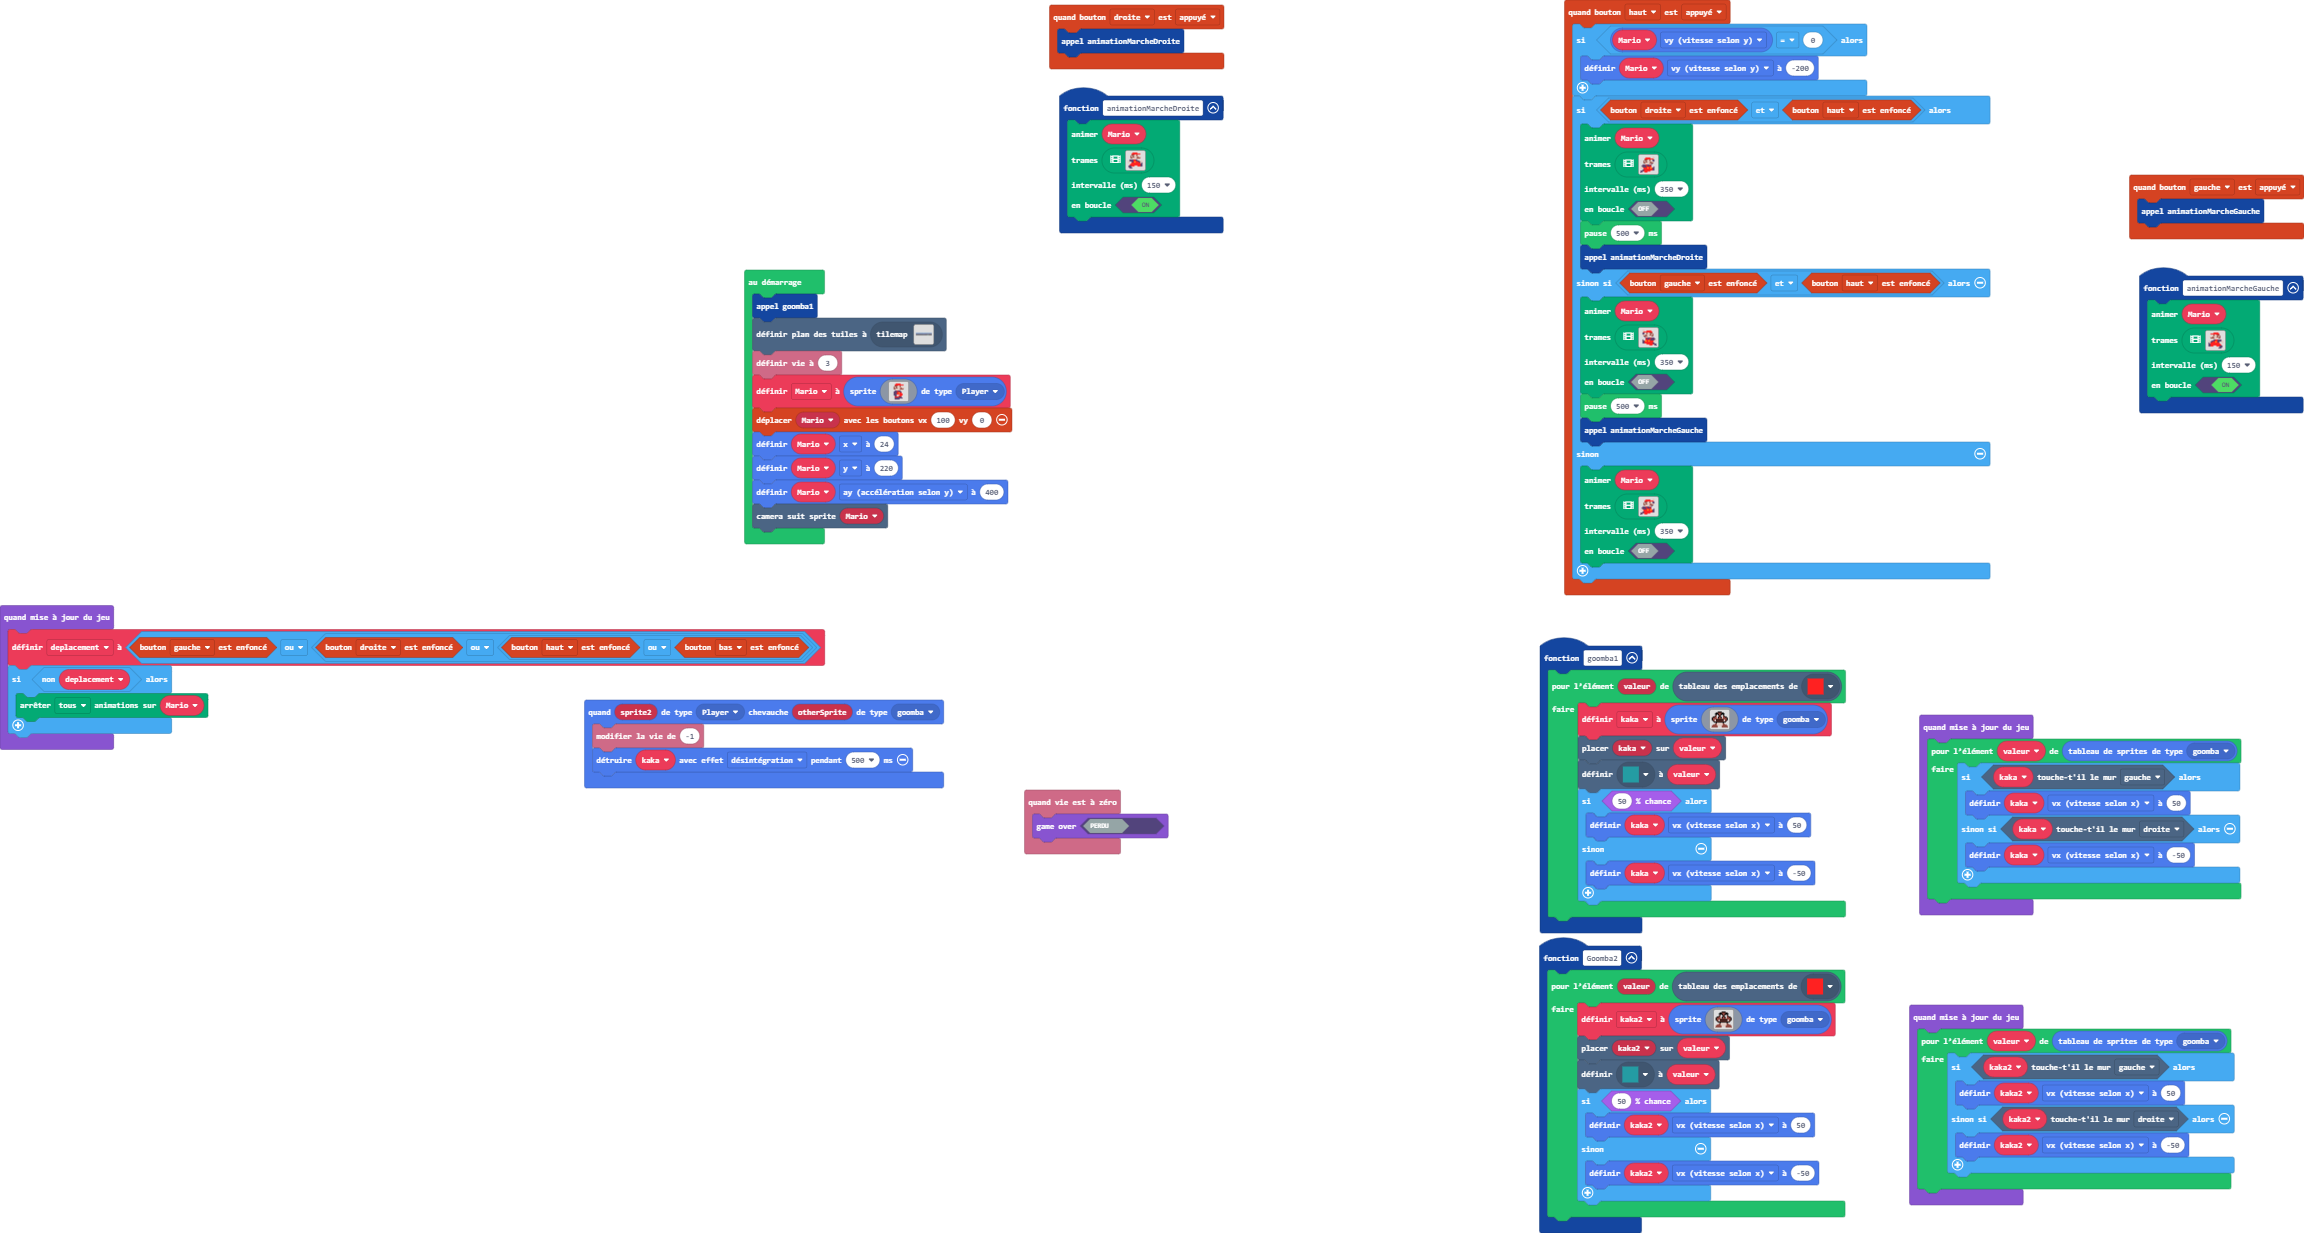
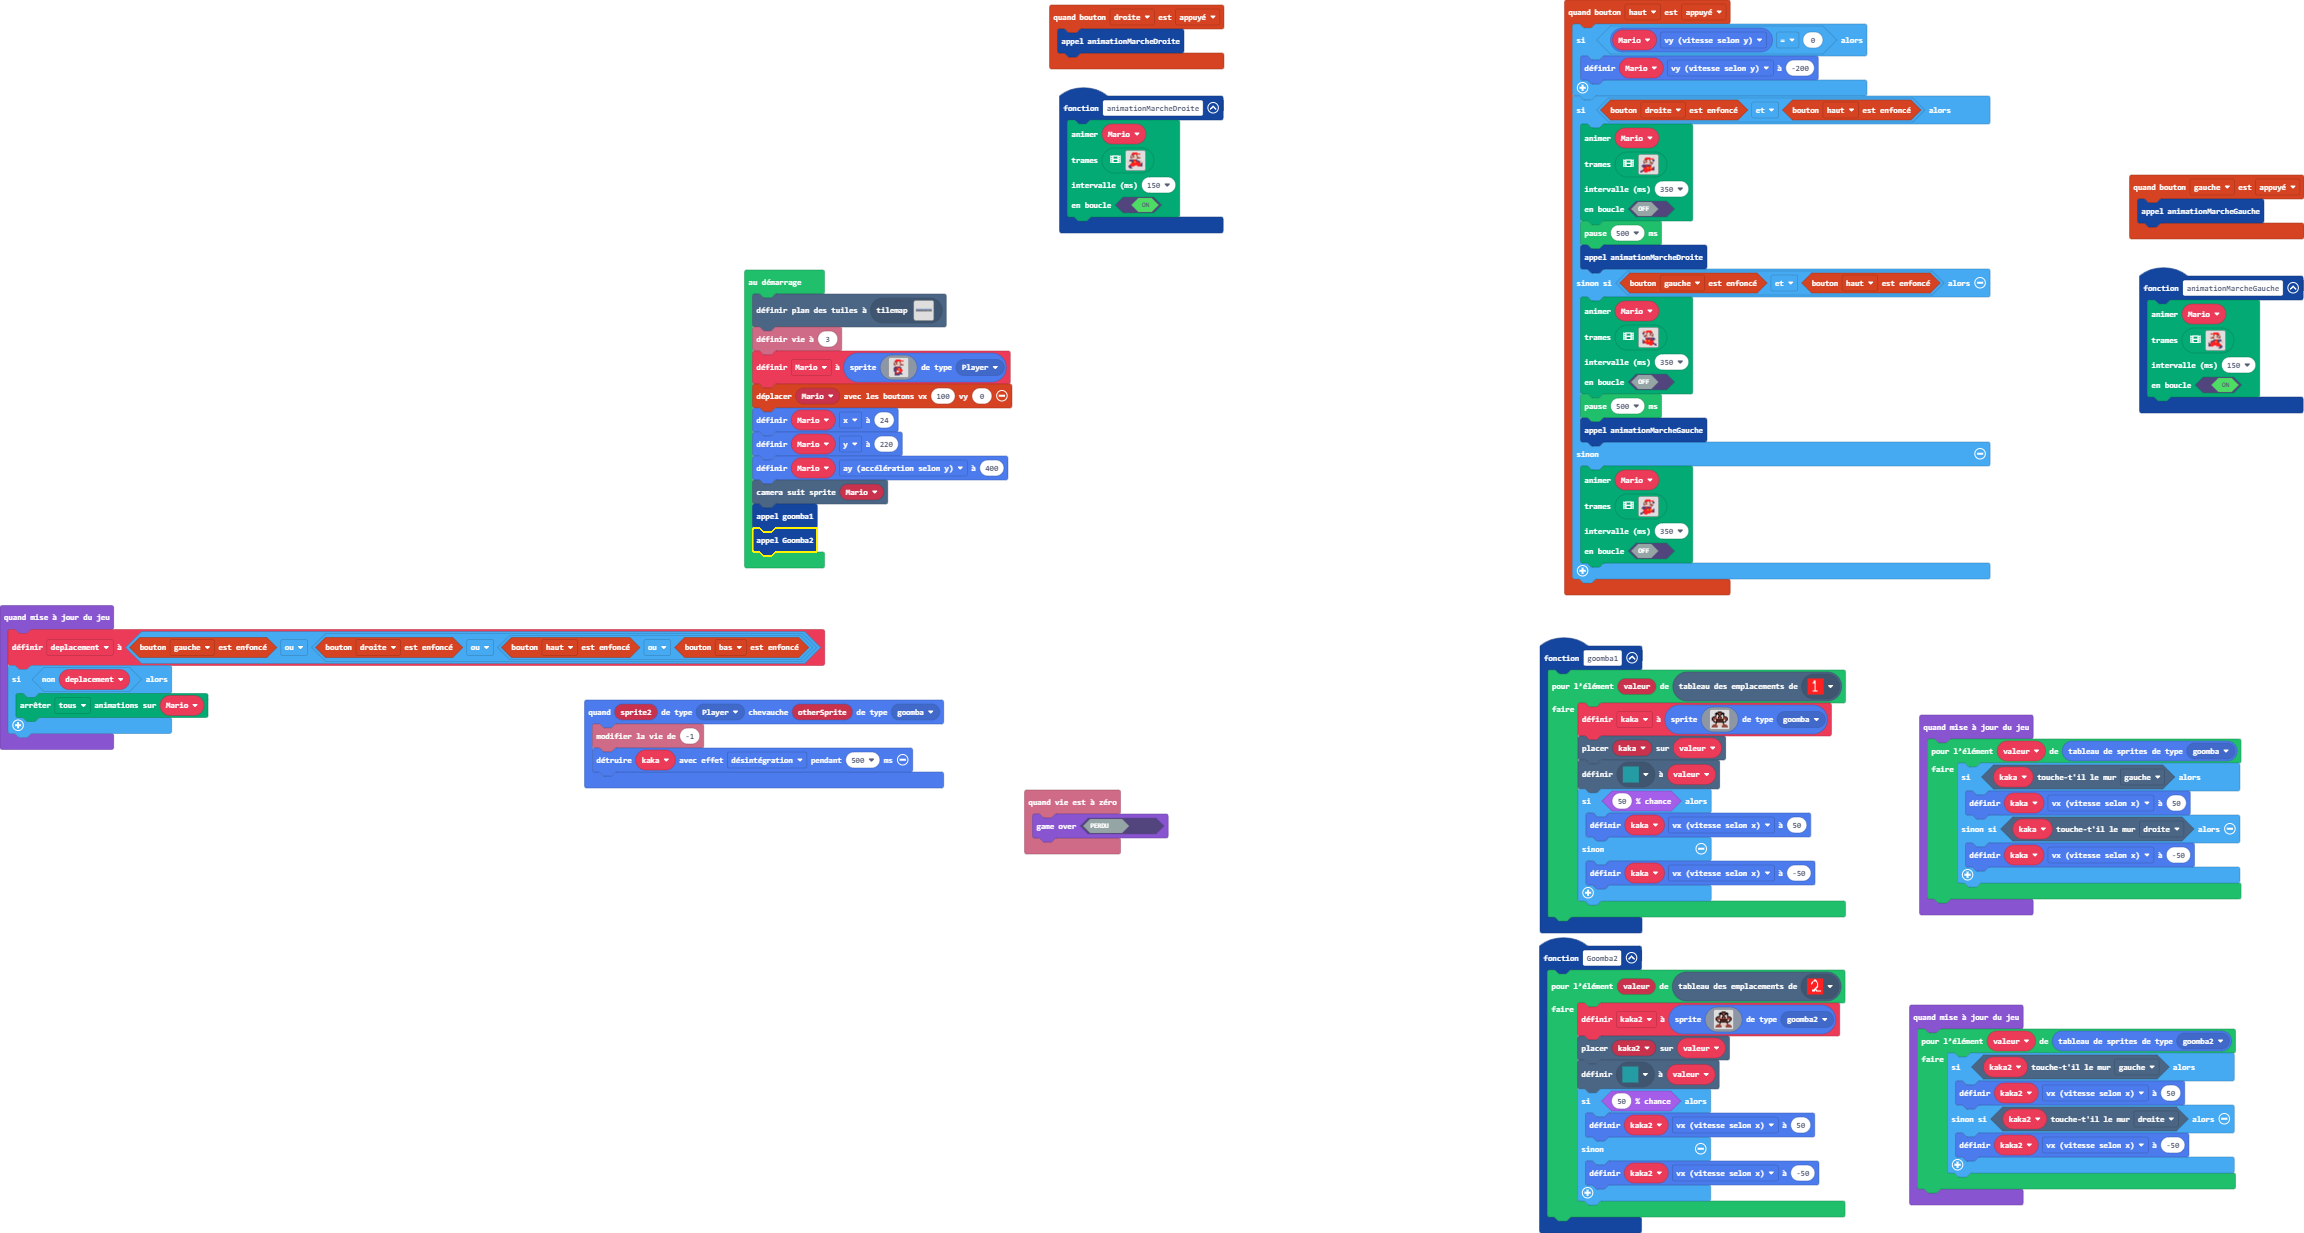
Mise à jour main.blocks, main.ts, tilemap.g.jres, tilemap.g.ts

Changed region(s): [[0.3125, 0.2157, 0.4375, 0.4623], [0.7812, 0.8013, 0.8125, 0.8321]]

diff --git a/tilemap.g.ts b/tilemap.g.ts
@@ -17,8 +17,6 @@ namespace myTiles {
     //% fixedInstance jres blockIdentity=images._tile
     export const tile8 = image.ofBuffer(hex``);
     //% fixedInstance jres blockIdentity=images._tile
-    export const tile6 = image.ofBuffer(hex``);
-    //% fixedInstance jres blockIdentity=images._tile
     export const tile13 = image.ofBuffer(hex``);
     //% fixedInstance jres blockIdentity=images._tile
     export const tile17 = image.ofBuffer(hex``);
@@ -102,6 +100,26 @@ namespace myTiles {
     export const tile51 = image.ofBuffer(hex``);
     //% fixedInstance jres blockIdentity=images._tile
     export const tile53 = image.ofBuffer(hex``);
+    //% fixedInstance jres blockIdentity=images._tile
+    export const tile40 = image.ofBuffer(hex``);
+    //% fixedInstance jres blockIdentity=images._tile
+    export const tile50 = image.ofBuffer(hex``);
+    //% fixedInstance jres blockIdentity=images._tile
+    export const tile52 = image.ofBuffer(hex``);
+    //% fixedInstance jres blockIdentity=images._tile
+    export const tile54 = image.ofBuffer(hex``);
+    //% fixedInstance jres blockIdentity=images._tile
+    export const tile55 = image.ofBuffer(hex``);
+    //% fixedInstance jres blockIdentity=images._tile
+    export const tile56 = image.ofBuffer(hex``);
+    //% fixedInstance jres blockIdentity=images._tile
+    export const tile57 = image.ofBuffer(hex``);
+    //% fixedInstance jres blockIdentity=images._tile
+    export const tile58 = image.ofBuffer(hex``);
+    //% fixedInstance jres blockIdentity=images._tile
+    export const tile59 = image.ofBuffer(hex``);
+    //% fixedInstance jres blockIdentity=images._tile
+    export const tile60 = image.ofBuffer(hex``);
 
     helpers._registerFactory("tilemap", function(name: string) {
         switch(helpers.stringTrim(name)) {
@@ -305,7 +323,7 @@ namespace myTiles {
 . . . . . . . . . . . . . . . . 
 `, [myTiles.transparency16], TileScale.Sixteen);
             case "niveau1":
[2 lines of base64/hex data omitted]
 ...............................................................................................................................................................................................................................................................
 ...............................................................................................................................................................................................................................................................
 ...............................................................................................................................................................................................................................................................
@@ -338,7 +356,7 @@ namespace myTiles {
 .....................................................................................................................................................................................2...22222222...2222.......................................................
 .....................................................................................................................................................................................2222222222222222222.......................................................
 ...............................................................................................................................................................................................................................................................
-`, [myTiles.transparency16,myTiles.tile2,myTiles.tile3,myTiles.tile7,myTiles.tile8,myTiles.tile9,myTiles.tile10,myTiles.tile11,myTiles.tile12,myTiles.tile4,myTiles.tile6,myTiles.tile15,myTiles.tile16,myTiles.tile19,myTiles.tile20,myTiles.tile21,myTiles.tile22,myTiles.tile26,myTiles.tile27,myTiles.tile28,myTiles.tile29,myTiles.tile30,myTiles.tile14,myTiles.tile35,myTiles.tile38,myTiles.tile39,myTiles.tile41,myTiles.tile42,myTiles.tile23,myTiles.tile31,myTiles.tile32,myTiles.tile33,myTiles.tile44,myTiles.tile45,myTiles.tile46,myTiles.tile47,myTiles.tile48,myTiles.tile49,myTiles.tile51,myTiles.tile53], TileScale.Sixteen);
+`, [myTiles.transparency16,myTiles.tile2,myTiles.tile3,myTiles.tile7,myTiles.tile8,myTiles.tile9,myTiles.tile10,myTiles.tile11,myTiles.tile12,myTiles.tile4,myTiles.tile15,myTiles.tile16,myTiles.tile19,myTiles.tile20,myTiles.tile21,myTiles.tile22,myTiles.tile26,myTiles.tile27,myTiles.tile28,myTiles.tile29,myTiles.tile30,myTiles.tile14,myTiles.tile35,myTiles.tile38,myTiles.tile39,myTiles.tile41,myTiles.tile42,myTiles.tile23,myTiles.tile31,myTiles.tile32,myTiles.tile33,myTiles.tile44,myTiles.tile45,myTiles.tile46,myTiles.tile47,myTiles.tile51,myTiles.tile53,myTiles.tile40,myTiles.tile50,myTiles.tile52,myTiles.tile54,myTiles.tile55,myTiles.tile56,myTiles.tile57,myTiles.tile58,myTiles.tile59,myTiles.tile60], TileScale.Sixteen);
         }
         return null;
     })
@@ -360,8 +378,6 @@ namespace myTiles {
             case "tile7":return tile7;
             case "myTile6":
             case "tile8":return tile8;
-            case "myTile4":
-            case "tile6":return tile6;
             case "myTile11":
             case "tile13":return tile13;
             case "myTile15":
@@ -446,6 +462,26 @@ namespace myTiles {
             case "tile51":return tile51;
             case "myTile51":
             case "tile53":return tile53;
+            case "myTile38":
+            case "tile40":return tile40;
+            case "myTile48":
+            case "tile50":return tile50;
+            case "myTile50":
+            case "tile52":return tile52;
+            case "myTile52":
+            case "tile54":return tile54;
+            case "myTile53":
+            case "tile55":return tile55;
+            case "myTile54":
+            case "tile56":return tile56;
+            case "myTile55":
+            case "tile57":return tile57;
+            case "myTile56":
+            case "tile58":return tile58;
+            case "myTile57":
+            case "tile59":return tile59;
+            case "myTile58":
+            case "tile60":return tile60;
         }
         return null;
     })

diff --git a/main.ts b/main.ts
@@ -2,6 +2,7 @@ namespace SpriteKind {
     export const goomba = SpriteKind.create()
     export const animation = SpriteKind.create()
     export const blockMystere = SpriteKind.create()
+    export const goomba2 = SpriteKind.create()
 }
 function animationMarcheGauche () {
     animation.runImageAnimation(
@@ -265,7 +266,7 @@ function animationMarcheDroite () {
     )
 }
 function Goomba2 () {
-    for (let valeur of tiles.getTilesByType(assets.tile`myTile4`)) {
+    for (let valeur of tiles.getTilesByType(assets.tile`myTile48`)) {
         kaka2 = sprites.create(img`
             . . . . . . f f f f . . . . . . 
             . . . . f f e e e e f f . . . . 
@@ -283,7 +284,7 @@ function Goomba2 () {
             . e e e e d d d d d d e e e e . 
             e e e e e e d d d d e e e e e e 
             e e e e e e . . . . e e e e e e 
-            `, SpriteKind.goomba)
+            `, SpriteKind.goomba2)
         tiles.placeOnTile(kaka2, valeur)
         tiles.setTileAt(valeur, assets.tile`myTile6`)
         if (Math.percentChance(50)) {
@@ -297,7 +298,7 @@ controller.left.onEvent(ControllerButtonEvent.Pressed, function () {
     animationMarcheGauche()
 })
 function goomba1 () {
-    for (let valeur of tiles.getTilesByType(assets.tile`myTile4`)) {
+    for (let valeur of tiles.getTilesByType(assets.tile`myTile38`)) {
         kaka = sprites.create(img`
             . . . . . . f f f f . . . . . . 
             . . . . f f e e e e f f . . . . 
@@ -329,7 +330,6 @@ let deplacement = false
 let kaka2: Sprite = null
 let kaka: Sprite = null
 let Mario: Sprite = null
-goomba1()
 tiles.setCurrentTilemap(tilemap`niveau1`)
 info.setLife(3)
 Mario = sprites.create(img`
@@ -355,6 +355,8 @@ Mario.x = 24
 Mario.y = 220
 Mario.ay = 400
 scene.cameraFollowSprite(Mario)
+goomba1()
+Goomba2()
 game.onUpdate(function () {
     deplacement = controller.left.isPressed() || (controller.right.isPressed() || (controller.up.isPressed() || controller.down.isPressed()))
     if (!(deplacement)) {
@@ -371,7 +373,7 @@ game.onUpdate(function () {
     }
 })
 game.onUpdate(function () {
-    for (let valeur of sprites.allOfKind(SpriteKind.goomba)) {
+    for (let valeur of sprites.allOfKind(SpriteKind.goomba2)) {
         if (kaka2.isHittingTile(CollisionDirection.Left)) {
             kaka2.vx = 50
         } else if (kaka2.isHittingTile(CollisionDirection.Right)) {
